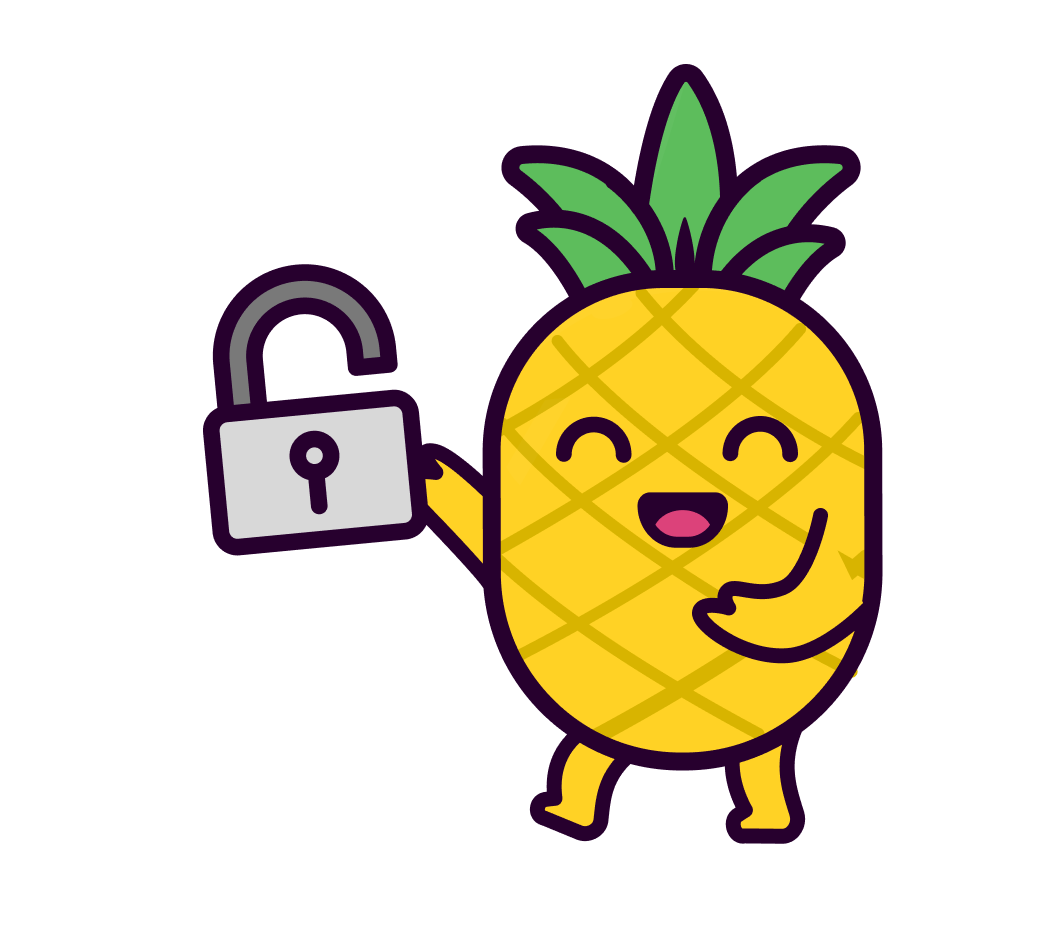
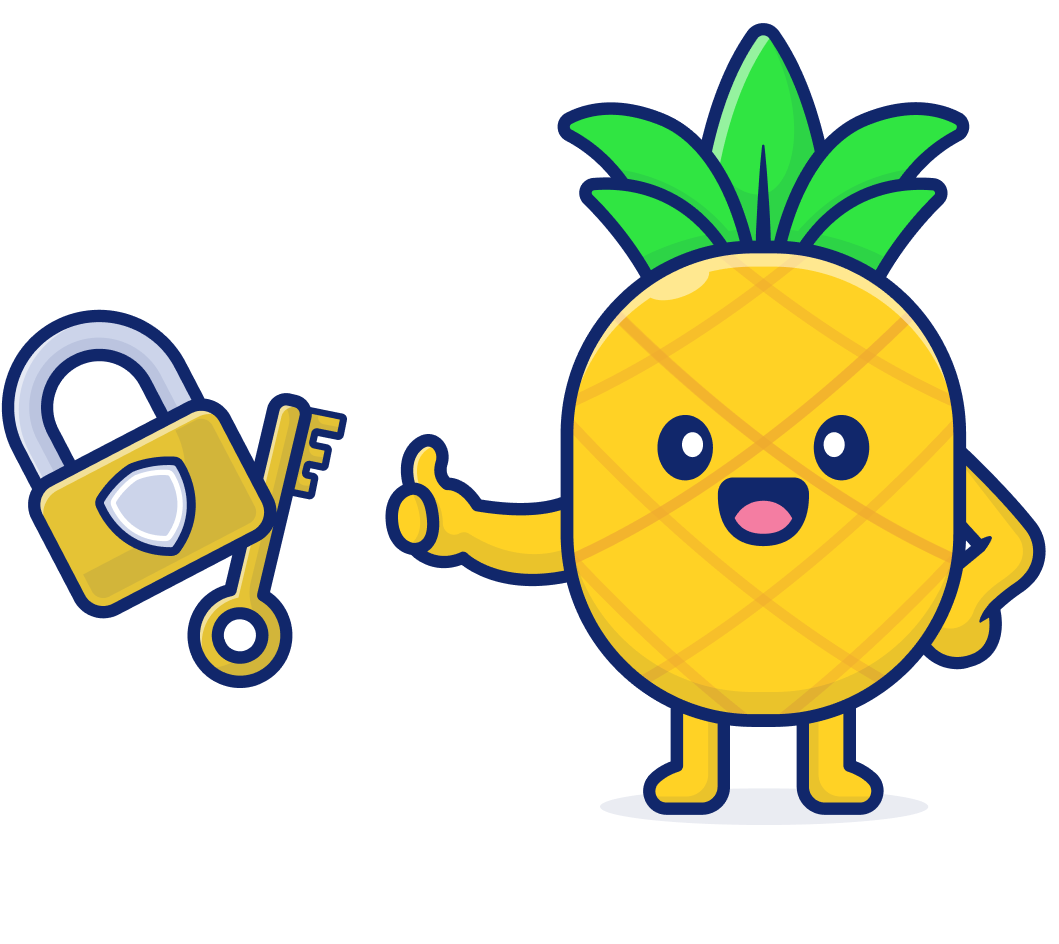
updated graphics to latest
Fixes #22

diff --git a/lib/src/screens/screen_intro_together.dart b/lib/src/screens/screen_intro_together.dart
@@ -45,7 +45,7 @@ class ScreenIntroTogether extends ScreenIntroAbstract {
           child: Image(image: AssetImage('res/images/intro-blob.png'))),
       Align(
           alignment: Alignment.bottomRight,
-          child: Image(image: AssetImage('res/images/intro-pineapple-90.png'))),
+          child: Image(image: AssetImage('res/images/intro-pineapple.png'))),
     ]);
   }
 

diff --git a/lib/src/screens/screen_intro_control.dart b/lib/src/screens/screen_intro_control.dart
@@ -50,7 +50,7 @@ class ScreenIntroControl extends ScreenIntroAbstract {
           child: Image(image: AssetImage('res/images/intro-blob.png'))),
       Align(
           alignment: Alignment.bottomRight,
-          child: Image(image: AssetImage('res/images/intro-pineapple-30.png'))),
+          child: Image(image: AssetImage('res/images/intro-pineapple.png'))),
     ]);
   }
 

diff --git a/lib/src/screens/screen_intro_earn.dart b/lib/src/screens/screen_intro_earn.dart
@@ -51,7 +51,7 @@ class ScreenIntroEarn extends ScreenIntroAbstract {
           child: Image(image: AssetImage('res/images/intro-blob.png'))),
       Align(
           alignment: Alignment.bottomRight,
-          child: Image(image: AssetImage('res/images/intro-pineapple-60.png')))
+          child: Image(image: AssetImage('res/images/intro-pineapple.png')))
     ]);
   }
 
